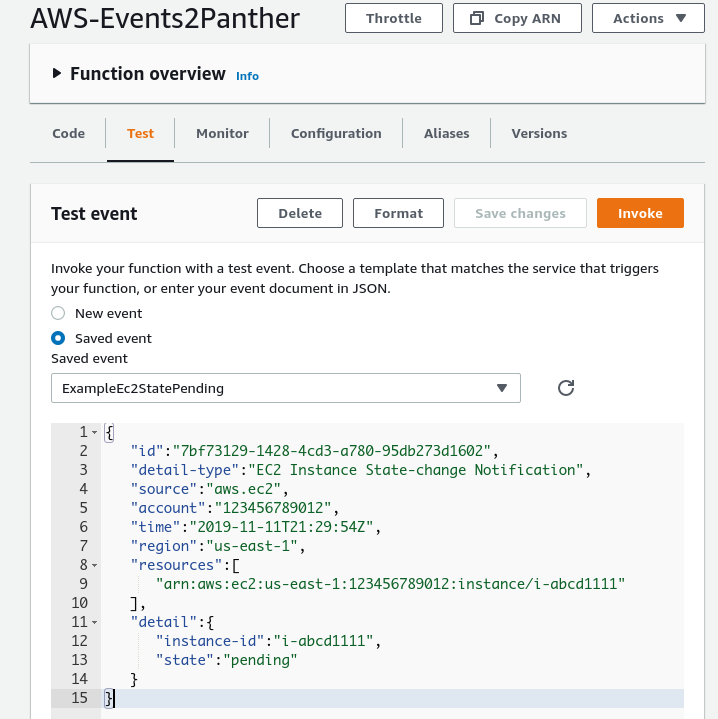
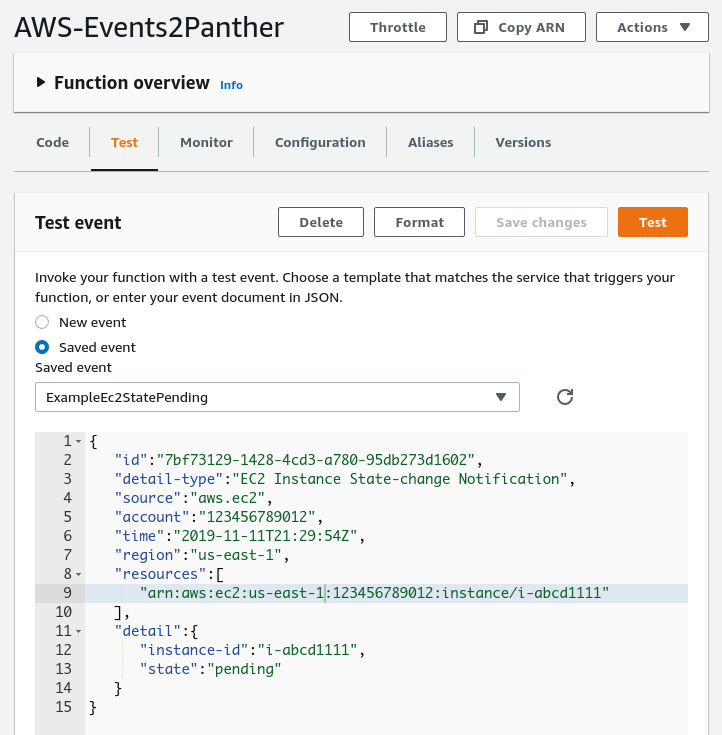
deploy: 7d3c988264ccf3385583fea2e6225f76828d6bd1

diff --git a/panther/sending-events/aws.html b/panther/sending-events/aws.html
@@ -227,5 +227,5 @@ sam local invoke Events2PantherFunction -e events/&lt;filename&gt;.json --env-va
       </span><span class="nl">"state"</span><span class="p">:</span><span class="s2">"pending"</span><span class="w">
    </span><span class="p">}</span><span class="w">
 </span><span class="p">}</span><span class="w">
-</span></code></pre></div></div> <p>It should look something like this:</p> <p><img src="/panther-docs/panther/sending-events/media/example-ec2-state-change.png" alt="example EC2 state change"></p> <h3 id="sending-a-sample-event"> <a href="#sending-a-sample-event" class="anchor-heading" aria-labelledby="sending-a-sample-event"><svg viewbox="0 0 16 16" aria-hidden="true"><use xlink:href="#svg-link"></use></svg></a> <a class="anchor" href="#sending-a-sample-event" aria-hidden="true"><span class="octicon octicon-link"></span></a>Sending a sample event </h3> <ul> <li> <p>Click the <img src="/panther-docs/panther/sending-events/media/invoke.png" alt="Invoke button"> button to send the event.</p> </li> <li> <p>Verify in your Panther Console that the event was received (it may take a couple of seconds)</p> </li> </ul> <p><img src="/panther-docs/panther/sending-events/media/example-ec2-in-panther.png" alt="EC2 event arrived in Panther"></p> <ul> <li>Repeat sending events, and the corresponding Panther Events tally will start increasing, e.g.</li> </ul> <p><img src="/panther-docs/panther/sending-events/media/example-ec2-in-panther-incremented.png" alt="EC2 event de-duplicated"></p> <h1 id="uninstalling"> <a href="#uninstalling" class="anchor-heading" aria-labelledby="uninstalling"><svg viewbox="0 0 16 16" aria-hidden="true"><use xlink:href="#svg-link"></use></svg></a> <a class="anchor" href="#uninstalling" aria-hidden="true"><span class="octicon octicon-link"></span></a>Uninstalling </h1> <p>If you wish to remove the CloudFormation stack that SAM creates you should run:</p> <div class="language-bash highlighter-rouge"><div class="highlight"><pre class="highlight"><code>aws cloudformation delete-stack <span class="nt">--stack-name</span> AWS-Events2Panther <span class="nt">--region</span> &lt;aws region&gt;
+</span></code></pre></div></div> <p>It should look something like this:</p> <p><img src="/panther-docs/panther/sending-events/media/example-ec2-state-change.png" alt="example EC2 state change"></p> <h3 id="sending-a-sample-event"> <a href="#sending-a-sample-event" class="anchor-heading" aria-labelledby="sending-a-sample-event"><svg viewbox="0 0 16 16" aria-hidden="true"><use xlink:href="#svg-link"></use></svg></a> <a class="anchor" href="#sending-a-sample-event" aria-hidden="true"><span class="octicon octicon-link"></span></a>Sending a sample event </h3> <ul> <li> <p>Click the <img src="/panther-docs/panther/sending-events/media/test.png" alt="Test button"> button to send the event.</p> </li> <li> <p>Verify in your Panther Console that the event was received (it may take a couple of seconds)</p> </li> </ul> <p><img src="/panther-docs/panther/sending-events/media/example-ec2-in-panther.png" alt="EC2 event arrived in Panther"></p> <ul> <li>Repeat sending events, and the corresponding Panther Events tally will start increasing, e.g.</li> </ul> <p><img src="/panther-docs/panther/sending-events/media/example-ec2-in-panther-incremented.png" alt="EC2 event de-duplicated"></p> <h1 id="uninstalling"> <a href="#uninstalling" class="anchor-heading" aria-labelledby="uninstalling"><svg viewbox="0 0 16 16" aria-hidden="true"><use xlink:href="#svg-link"></use></svg></a> <a class="anchor" href="#uninstalling" aria-hidden="true"><span class="octicon octicon-link"></span></a>Uninstalling </h1> <p>If you wish to remove the CloudFormation stack that SAM creates you should run:</p> <div class="language-bash highlighter-rouge"><div class="highlight"><pre class="highlight"><code>aws cloudformation delete-stack <span class="nt">--stack-name</span> AWS-Events2Panther <span class="nt">--region</span> &lt;aws region&gt;
 </code></pre></div></div> </div> <hr> <footer> <div style="float: right"> <p class="text-small"> © 2021 <a href="https://openanswers.co.uk">Open Answers</a> </p> </div> <div class="d-flex mt-2"> <p class="text-small text-grey-dk-000 mb-0"> <a href="https://github.com/openanswers/panther-docs/tree/master/panther/sending-events/aws.md" id="edit-this-page">Edit this page on GitHub.</a> </p> </div> </footer> </div> </div> <div class="search-overlay"></div> </div> </body> </html>
